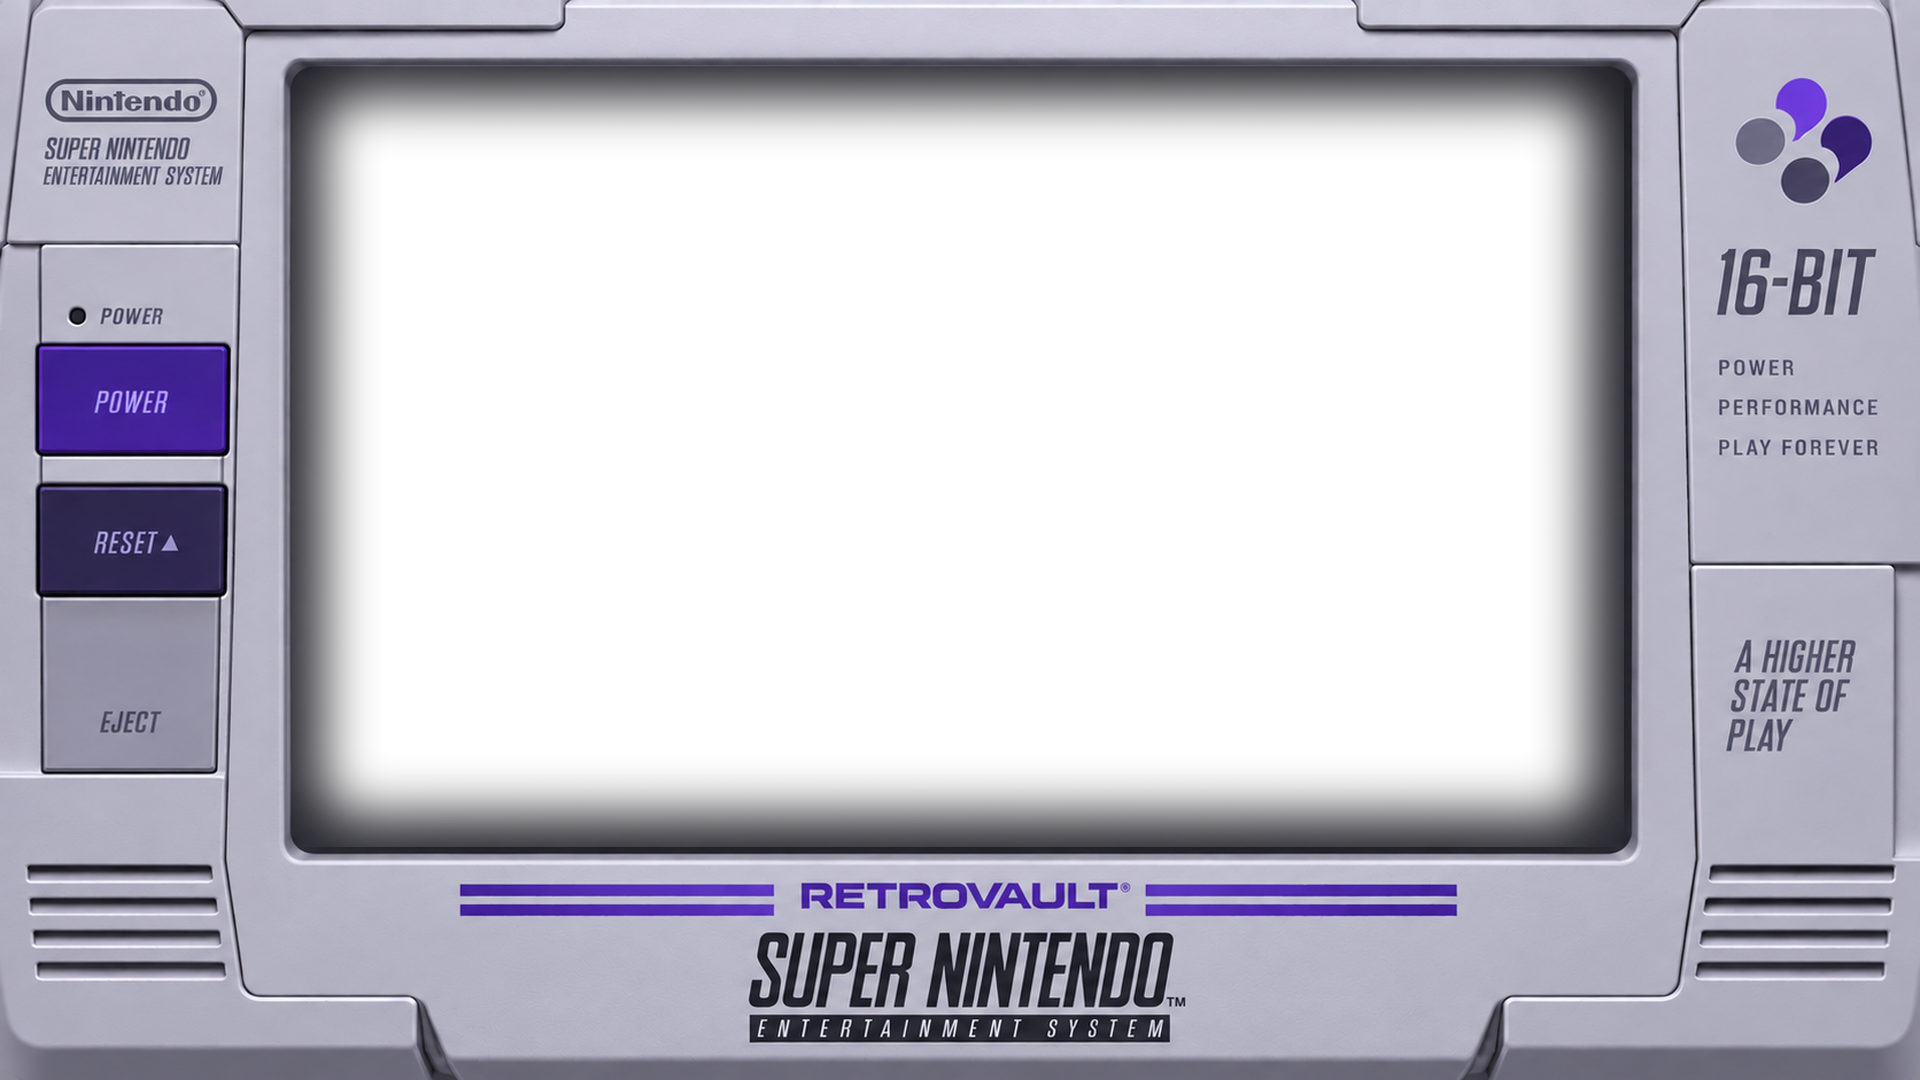
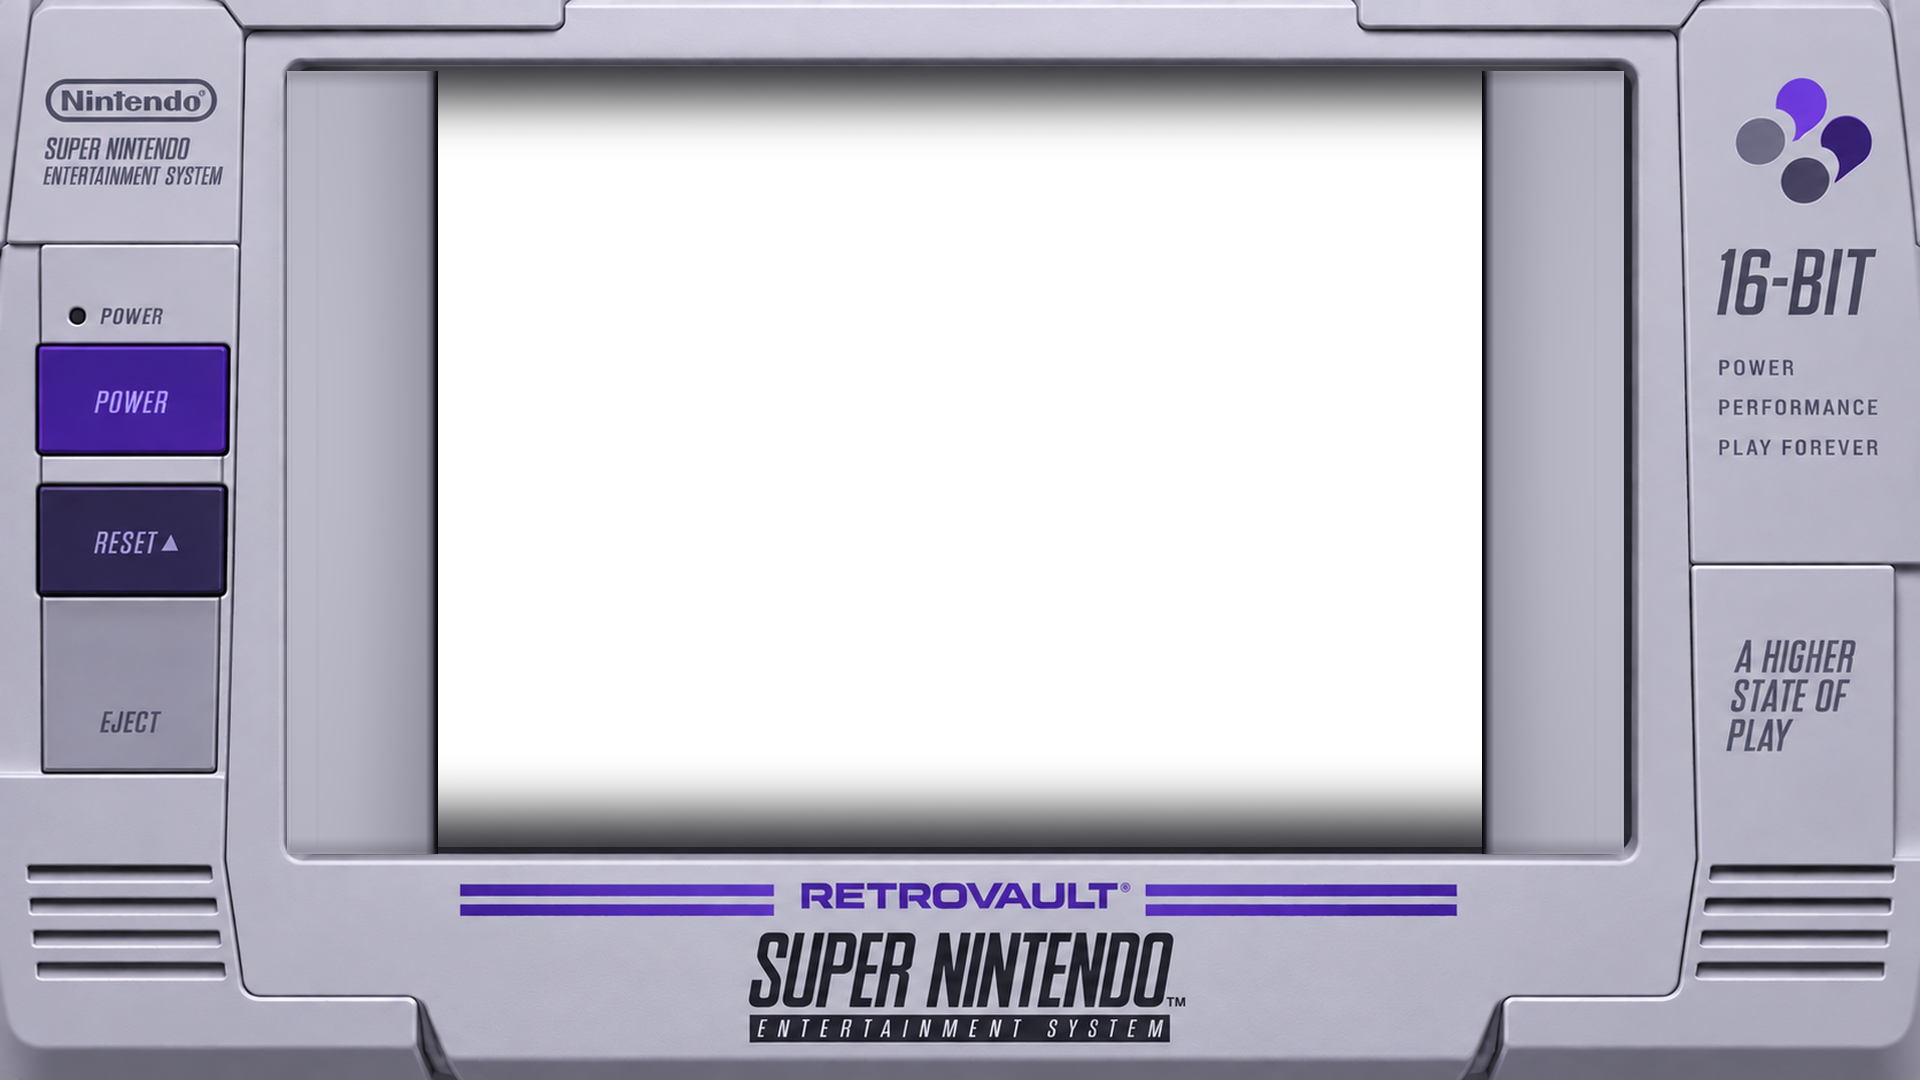
feat: finalize RVV SNES production visual

Changed region(s): [[0.125, 0.0611, 0.25, 0.7944], [0.75, 0.0611, 0.8438, 0.7944]]

diff --git a/tests/test_rvv_snes_classic_production_asset.py b/tests/test_rvv_snes_classic_production_asset.py
@@ -242,52 +242,52 @@ def test_snes_overlay_cfg_is_portable():
 
 
 def test_snes_runtime_descriptor_is_owned():
-    assert RUNTIME.read_text(encoding="utf-8") == (
-        'aspect_ratio_index = "22"\n'
-        'video_force_aspect = "true"\n'
-        'custom_viewport_x = "0"\n'
-        'custom_viewport_y = "0"\n'
-        'custom_viewport_width = "1920"\n'
-        'custom_viewport_height = "1080"\n'
+    text = RUNTIME.read_text(encoding="utf-8")
+
+    required = (
+        'aspect_ratio_index = "23"',
+        'video_force_aspect = "true"',
+        'video_scale_integer = "false"',
+        'custom_viewport_width = "1044"',
+        'custom_viewport_height = "783"',
+        'video_viewport_bias_x = "0.500000"',
+        'video_viewport_bias_y = "0.239057239"',
     )
 
+    for value in required:
+        assert value in text
 
-def test_snes_shader_descriptor_preserves_4_3():
+def test_snes_shader_descriptor_preserves_approved_crt_contract():
     text = SHADER.read_text(encoding="utf-8")
 
-    assert (
-        'HSM_ASPECT_RATIO_EXPLICIT = "1.333333333"'
-        in text
-    )
-    assert (
-        'HSM_ASPECT_RATIO_MODE = "1.000000"'
-        in text
+    required = (
+        'post_br = "2.200000"',
+        'bloom = "0.100000"',
+        'scans = "0.500000"',
+        'beam_max = "1.100000"',
+        'scanline1 = "6.000000"',
+        'scanline2 = "8.000000"',
+        'shadowMask = "6.000000"',
+        'maskstr = "0.500000"',
+        'HSM_CURVATURE_MODE = "0.000000"',
+        'HSM_NON_INTEGER_SCALE = "100.000000"',
     )
 
+    for value in required:
+        assert value in text
 
-def test_snes_spec_tracks_package_without_promotion():
+def test_snes_spec_tracks_validated_production_package():
     data = load_json(SPEC)
 
-    assert data["production_status"] == "design"
+    assert data["production_assets"]["status"] == "production_validated"
 
-    assert (
-        data["production_assets"]["status"]
-        == "package_created"
-    )
+    validation = data["production_validation"]
 
-    assert (
-        data["design"]["runtime"]["safe_zone"]["status"]
-        == "production_locked"
-    )
-
-    assert (
-        data["design"]["runtime"]
-        ["game_viewport"]["status"]
-        == "superseded_by_production_alpha"
-    )
-
-    assert data["catalog"]["reference"] == (
-        "retro-vault://overlays/"
-        "retrovault/snes/classic/"
-        "RetroVault_SNES_Classic.cfg"
-    )
+    assert validation["status"] == "pass"
+    assert validation["geometry"]["viewport"] == {
+        "x": 438,
+        "y": 71,
+        "width": 1044,
+        "height": 783,
+    }
+    assert validation["geometry"]["aspect_ratio"] == "4:3"

diff --git a/tests/test_rvv_snes_classic_specification.py b/tests/test_rvv_snes_classic_specification.py
@@ -102,14 +102,22 @@ def test_native_snes_legacy_geometry_is_preserved():
     )
 
 
-def test_native_snes_package_does_not_prematurely_promote():
+def test_native_snes_package_is_production_validated():
     data = load_spec()
-
-    assert data["production_status"] == "design"
 
     assets = data["production_assets"]
 
-    assert assets["status"] == "package_created"
+    assert assets["status"] == "production_validated"
+    assert (
+        assets["crt_preset"]
+        == "retrovault/snes/classic/RetroVault_SNES_Classic_CRT.slangp"
+    )
+
+    validation = data["production_validation"]
+
+    assert validation["status"] == "pass"
+    assert validation["geometry"]["aspect_ratio"] == "4:3"
+    assert validation["geometry"]["aspect_ratio_index"] == 23
 
     assert assets["png"].endswith(
         "RetroVault_SNES_Classic_1080p.png"
@@ -310,14 +318,18 @@ def test_native_snes_blend_does_not_replace_game_aspect():
     assert "4:3" in policy
 
 
-def test_native_snes_package_remains_pre_live_proof():
+def test_native_snes_package_tracks_live_production_proof():
     data = load_spec()
 
-    assert data["production_status"] == "design"
+    assert data["production_assets"]["status"] == "production_validated"
 
+    validation = data["production_validation"]
+
+    assert validation["status"] == "pass"
+    assert validation["cross_game_validation"]["Super Mario World"] == "pass"
     assert (
-        data["production_assets"]["status"]
-        == "package_created"
+        validation["cross_game_validation"]["Street Fighter II Turbo"]
+        == "pass"
     )
 
     boundary = (
